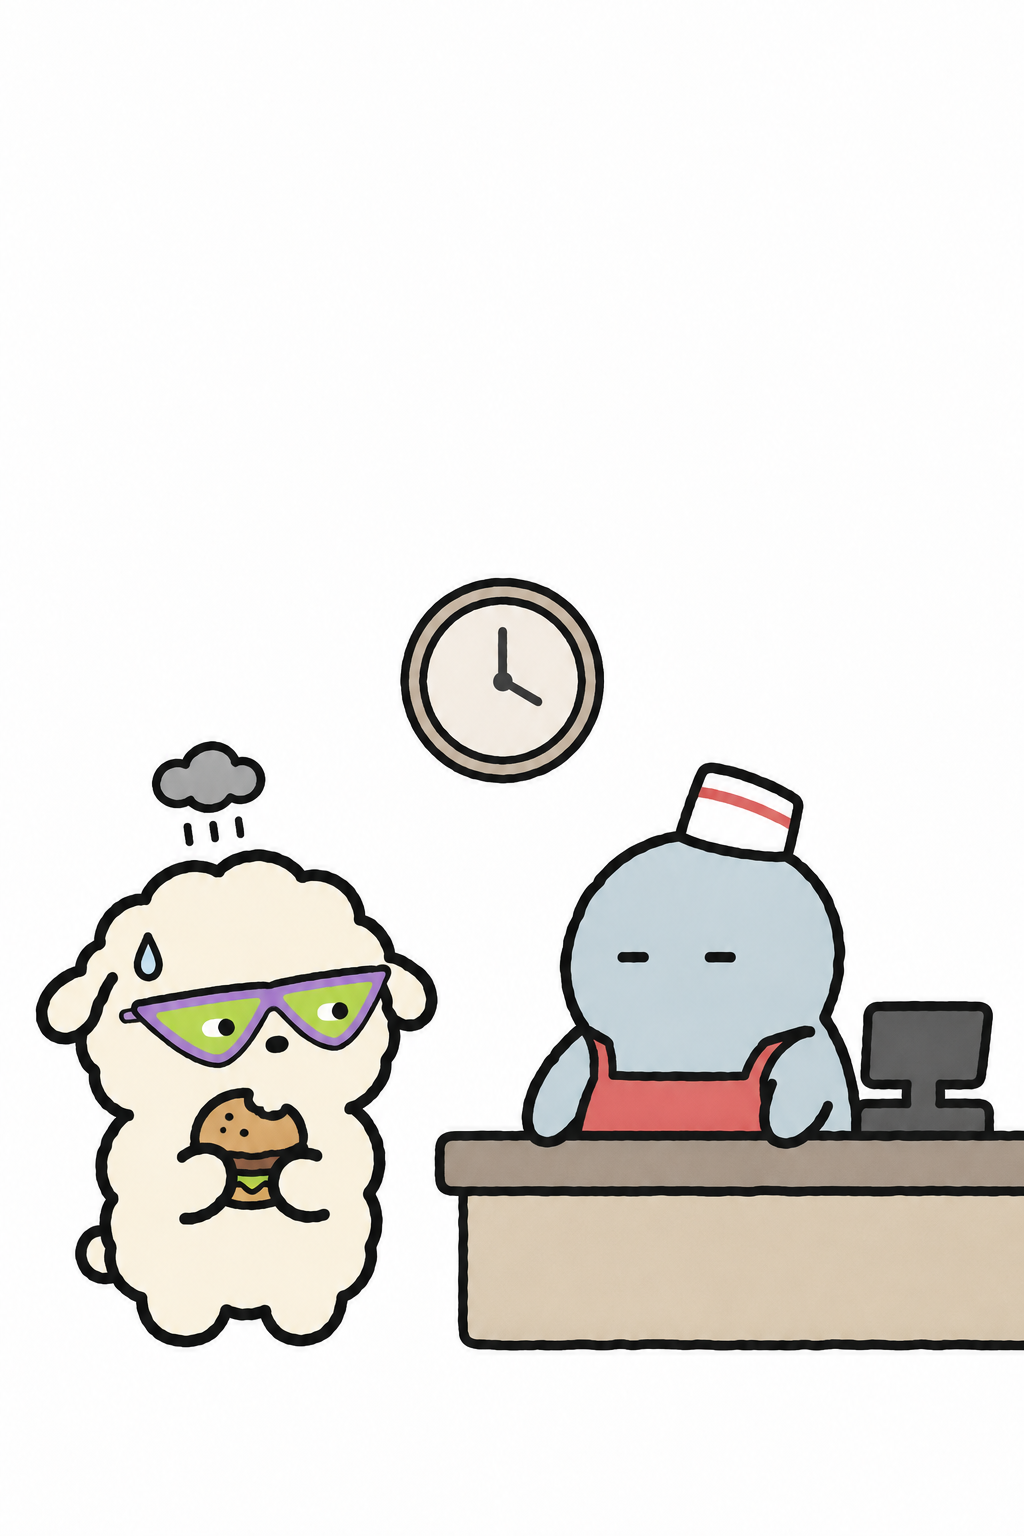
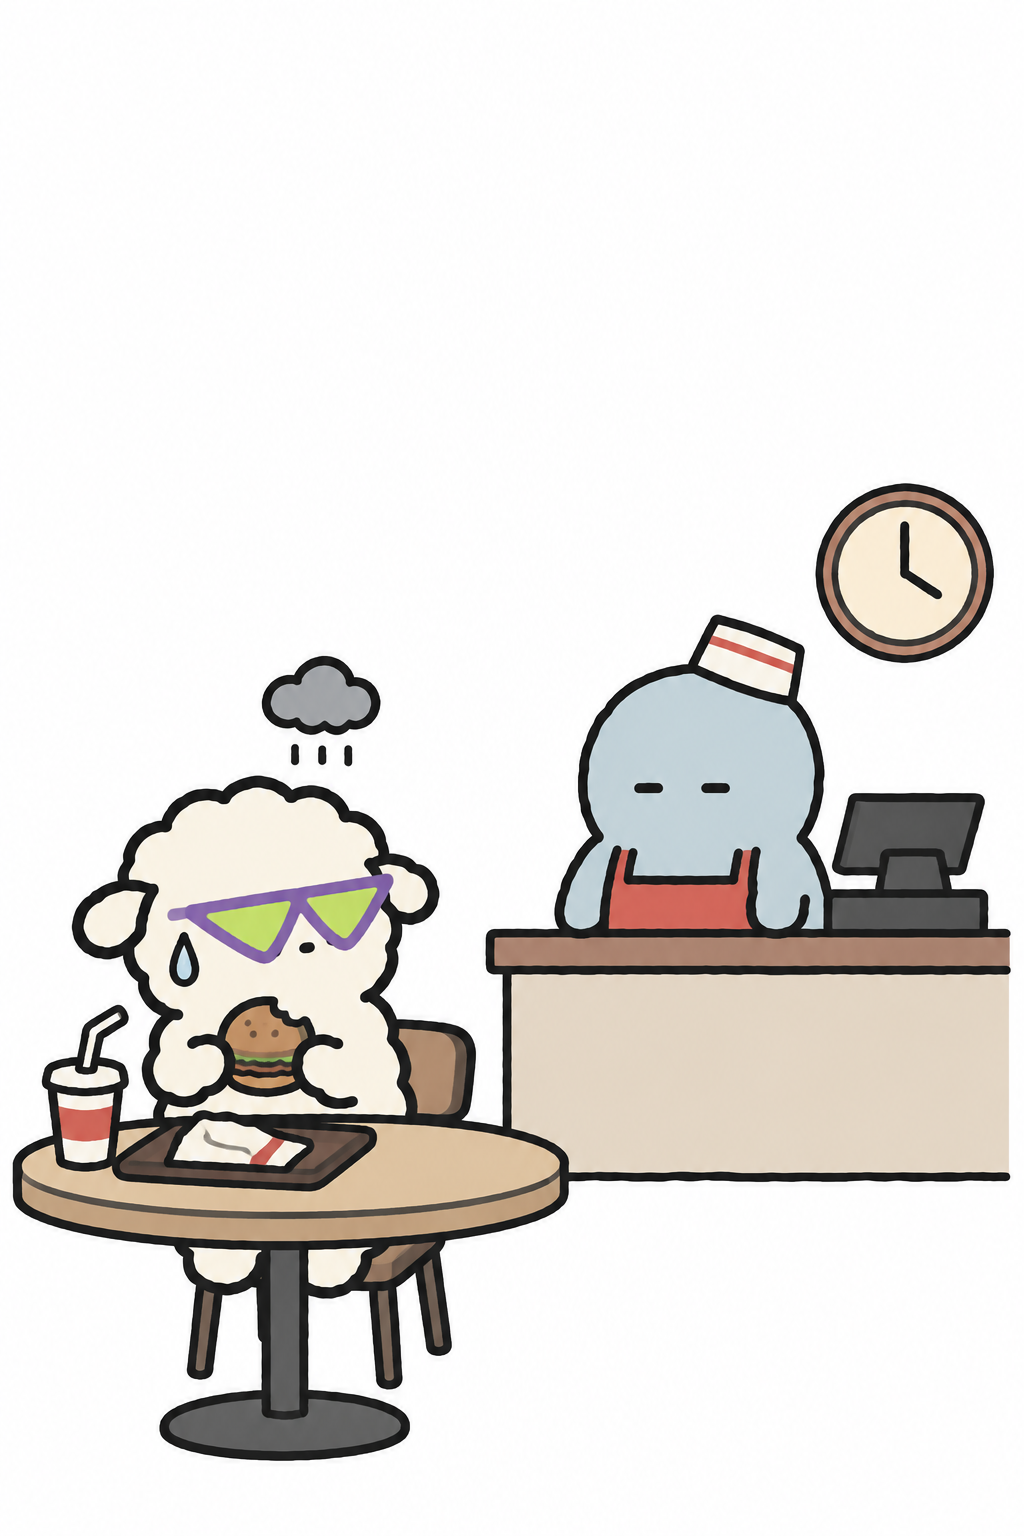
EP.01 수정: 폰트 확대(내레이션 56/속마음 40), 줄바꿈 콘티 그대로, 표지 시리즈명, CTA 문구, 컷2·4 재생성

diff --git a/episodes/ep01/compose.html b/episodes/ep01/compose.html
@@ -12,16 +12,16 @@
   section{position:relative;width:1080px;height:1350px;overflow:hidden;background:#fff;margin:0 auto 20px;font-family:'KyoboHand',sans-serif;color:var(--ink)}
   section img.art{position:absolute;inset:0;width:1080px;height:1350px;object-fit:cover;object-position:50% 100%}
   section.cover img.art{object-fit:contain;object-position:50% 100%}
-  .title{position:absolute;top:120px;left:80px;right:80px;text-align:center;font-family:'Nanum Pen Script',cursive;font-size:118px;line-height:1.12;letter-spacing:-.01em}
+  .series{position:absolute;top:84px;left:80px;right:80px;text-align:center;font-size:44px;color:var(--gray);letter-spacing:.02em}
+  .title{position:absolute;top:150px;left:60px;right:60px;text-align:center;font-family:'Nanum Pen Script',cursive;font-size:118px;line-height:1.12;letter-spacing:-.01em}
   .title b{font-weight:400;color:var(--point)}
-  .narr{position:absolute;top:70px;left:70px;right:70px;text-align:center;font-size:46px;line-height:1.5;white-space:pre-line}
-  .mind{position:absolute;font-size:30px;line-height:1.35;color:var(--gray);white-space:pre-line}
-  .mind.s{font-size:26px}
-  .mind.t{font-size:34px;color:#6E6862;background:#fff;padding:2px 10px}
-  #s7 img.art{transform:scale(.88);transform-origin:50% 100%}
-  #s7 .narr{font-size:40px}
-  #s7 .cta{top:318px;bottom:auto}
-  .cta{position:absolute;left:70px;right:70px;bottom:44px;text-align:center;font-size:32px;color:var(--point)}
+  .narr{position:absolute;top:70px;left:50px;right:50px;text-align:center;font-size:56px;line-height:1.4;white-space:pre}
+  .mind{position:absolute;font-size:40px;line-height:1.35;color:var(--gray);white-space:pre-line}
+  .mind.s{font-size:30px}
+  .mind.t{font-size:38px;color:#6E6862;background:#fff;padding:2px 10px}
+  #s7 img.art{transform:scale(.92);transform-origin:50% 100%}
+  #s7 .cta{top:250px;bottom:auto}
+  .cta{position:absolute;left:70px;right:70px;bottom:44px;text-align:center;font-size:38px;color:var(--point)}
   .dim img.art{filter:saturate(.75) brightness(.97)}
 </style>
 </head>
@@ -29,7 +29,8 @@
 
 <section class="cover" id="s0">
   <img class="art" src="img/cover.png" alt="">
-  <div class="title">말하지 않은<br><b>마음</b>까지 읽는<br>초능력자</div>
+  <div class="series">당신은 약간 초능력자?</div>
+  <div class="title">말하지 않은 <b>마음</b>까지 읽는<br>초능력자</div>
 </section>
 
 <section id="s1">
@@ -48,51 +49,54 @@
   <img class="art" src="img/cut2.png" alt="">
   <div class="narr">이 능력 덕분에
 많은 이들로부터 환영을 받기도 하고</div>
-  <div class="mind" style="right:60px;top:1180px;width:420px;text-align:center">내 맘 알아 주는 건
+  <div class="mind" style="left:520px;top:1170px;width:420px;text-align:center">내 맘 알아 주는 건
 너밖에 없어</div>
 </section>
 
 <section id="s3">
   <img class="art" src="img/cut3.png" alt="" style="object-position:50% 80%">
   <div class="narr">때로는 주류 무리의 반대를 무릅쓰고
-소외되는 이에게 손 내미는
-영웅적 면모도 보여 준다.</div>
+소외되는 이에게 손 내미는 영웅적 면모도 보여 준다.</div>
 </section>
 
 <section id="s4" class="dim">
   <img class="art" src="img/cut4.png" alt="">
   <div class="narr">이 능력 때문에 필요 없는 눈치를 보거나
 손해를 자처할 때도 많고</div>
-  <div class="mind s" style="left:330px;top:262px;width:380px;text-align:center">마감 시간 1시간 넘게 남음</div>
-  <div class="mind" style="right:50px;top:480px;width:340px;text-align:center">아무 생각 없음</div>
+  <div class="mind s" style="left:850px;top:436px;width:220px;text-align:center;font-size:28px">마감 시간
+1시간 넘게 남음</div>
+  <div class="mind" style="left:560px;top:322px;width:240px;text-align:center">아무 생각 없음</div>
 </section>
 
 <section id="s5" class="dim">
   <img class="art" src="img/cut5.png" alt="">
-  <div class="narr">스스로의 마음을 돌보지 못하는
-나를 미워하거나
-지난 날의 영웅적인 선택들까지
-후회하기도 한다.</div>
+  <div class="narr">스스로의 마음을 돌보지 못하는 나를 미워하거나
+지난 날의 영웅적인 선택들까지 후회하기도 한다.</div>
   <div class="mind" style="right:60px;top:1230px;width:460px;text-align:center">이건 초능력이 아니라 저주야...</div>
 </section>
 
 <section id="s6">
   <img class="art" src="img/cut6.png" alt="">
   <div class="narr">그렇지만 내가 나를 챙기지 못할 때면,
-항상 내가 지켜낸 사람들이
-나를 지켜 줬다.</div>
+항상 내가 지켜낸 사람들이 나를 지켜 줬다.</div>
 </section>
 
 <section id="s7">
   <img class="art" src="img/cut7.png" alt="">
-  <div class="narr">나는 앞으로도
-사람들의 마음을 외면하지 않을 것이다.
-내가 건넨 손길들로
-내 주변을 따뜻하게 할 수만 있다면.</div>
-  <div class="cta">당신 곁의 두부를 태그해 주세요</div>
+  <div class="narr">나는 앞으로도 사람들의 마음을 외면하지 않을 것이다.
+내가 건넨 손길들로 내 주변을 따뜻하게 할 수만 있다면.</div>
+  <div class="cta">당신 옆의 초능력자를 태그해 주세요</div>
 </section>
 
 <script>
+  // 내레이션: 줄바꿈은 콘티 그대로 두고, 가장 긴 줄이 폭을 넘으면 그 슬라이드만 폰트를 줄인다 (기본 56px)
+  document.fonts.ready.then(() => {
+    document.querySelectorAll('.narr').forEach(el => {
+      let fs = 56;
+      while (el.scrollWidth > el.clientWidth && fs > 30) el.style.fontSize = (--fs) + 'px';
+      el.dataset.fs = fs;
+    });
+  });
   // compose.html?only=N → 그 슬라이드만 표시 (헤드리스 스크린샷용, N은 0부터)
   const only = new URLSearchParams(location.search).get('only');
   if (only !== null) {

diff --git a/episodes/ep01/build_prompts.py b/episodes/ep01/build_prompts.py
@@ -13,7 +13,7 @@ files['conti.md'] = """# EP.01 「말하지 않은 마음까지 읽는 초능력
 | 4 | 패스트푸드 카운터. 찡그린 점원(물범), 반 넘게 남은 햄버거를 든 채 눈치 보는 두부. 벽시계 | 이 능력 때문에 필요 없는 눈치를 보거나 / 손해를 자처할 때도 많고 | 시계 위: 마감 시간 1시간 넘게 남음 · 점원: 아무 생각 없음 |
 | 5 | 켜진 모니터에 고양이 3인조가 사이좋게 찍은 인스타 화면. 두부는 선글라스를 던져 놓고 이불에 파묻혀 욺 | 스스로의 마음을 돌보지 못하는 나를 미워하거나 / 지난 날의 영웅적인 선택들까지 후회하기도 한다. | 두부: 이건 초능력이 아니라 저주야... |
 | 6 | 탱자와 소라가 선글라스를 쓰고 양쪽에서 우는 두부에게 달려옴 | 그렇지만 내가 나를 챙기지 못할 때면, / 항상 내가 지켜낸 사람들이 나를 지켜 줬다. | — |
-| 7 | 둥지 안에 조연들이 작은 새처럼 들어가 위를 보고 조잘거리고, 선글라스 두부가 둥지를 내려다봄. 머리 위 하트 | 나는 앞으로도 사람들의 마음을 외면하지 않을 것이다. / 내가 건넨 손길들로 내 주변을 따뜻하게 할 수만 있다면. | CTA: 당신 곁의 두부를 태그해 주세요 |
+| 7 | 둥지 안에 조연들이 작은 새처럼 들어가 위를 보고 조잘거리고, 선글라스 두부가 둥지를 내려다봄. 머리 위 하트 | 나는 앞으로도 사람들의 마음을 외면하지 않을 것이다. / 내가 건넨 손길들로 내 주변을 따뜻하게 할 수만 있다면. | CTA: 당신 옆의 초능력자를 태그해 주세요 |
 
 톤: 1–3 밝음 → 4–6 저채도·먹구름 → 7 포인트 컬러 복귀. 참조: 두부·소라·탱자·점원 시트, `ref/lineup-*.png`, 고양이 3인조 시트, 깜자 2장. 프롬프트는 `build_prompts.py`가 만든다.
 """
@@ -27,7 +27,7 @@ Dubu design:
 - 2-head-tall potato body with a soft cloud-shaped fluffy outline, stubby limbs, tiny tail, two small rounded ears sticking out sideways
 - face: two small black dot eyes set wide apart, one small dark dot nose, NO MOUTH, NO BLUSH, no eyelashes
 
-Prop of this episode, THE SUNGLASSES: a pair of wide, horizontally long sunglasses shaped like a downward-pointing triangle (flat top edge, lenses tapering to a point at the bottom), with lime-green #B5E550 lenses and a purple #8E5BC7 frame. Drawn flat, bold, simple.
+Prop of this episode, THE SUNGLASSES: a pair of wide, horizontally long sunglasses shaped like a downward-pointing triangle (flat top edge, lenses tapering to a point at the bottom), with lime-green #B5E550 lenses and a purple #8E5BC7 frame. Drawn flat, bold, simple. When a character WEARS the sunglasses, they sit exactly over the eyes: the lenses are centered on the face at eye level, both dot eyes are completely hidden behind the lenses, and the frame rests on the nose. Never draw them on the forehead or above the eyes.
 
 """
 END = "\nNo text, no letters, no speech bubbles, no captions. Plain white background.\n"
@@ -40,7 +40,7 @@ cuts['cut3'] = """Additional characters: Tangja, a yellow #F5E08C duck (flat ora
 ALL characters wear a simple girls' high-school uniform: white short-sleeve shirt and a navy #2E3A59 pleated skirt. Nothing else.
 Scene: a school cafeteria. In the foreground, Dubu wearing THE SUNGLASSES and Tangja sit side by side at a long plain table with two metal lunch trays with food. Tangja is sulky: eyes as small downward dashes, head drooping, a tiny gray rain cloud above her. Dubu sits close beside her, calm. Behind them, the three cats walk past in a line, each glancing at the two with a cold side-eye (eyes as small sideways dashes). Whole scene in the lower 65% of the image, the upper 35% empty white.""" + END
 cuts['cut4'] = """Additional character: a fast-food clerk, a blue gray #BCD0DA seal (blob body, no ears, flipper arms, dot eyes, no mouth, see the clerk sheet), same height as Dubu. The clerk wears a small white paper cap and a plain red #D9534F apron.
-Scene: a fast-food counter. The clerk stands behind a plain counter on the right, arms limp, eyes as two small slightly furrowed dashes (a mild frown), staring blankly. On the left, Dubu wearing THE SUNGLASSES stands holding a hamburger that is more than half uneaten, glancing nervously at the clerk: dot eyes looking sideways, body slightly shrunk, one sweat drop, a tiny gray rain cloud above her. On the wall between them, a simple round wall clock. Muted, slightly desaturated colors. Scene in the lower 60% of the image, the upper 40% empty white.
+Scene: inside a fast-food restaurant. On the right, in the background, the clerk stands behind a plain counter, arms limp, eyes as two small slightly furrowed dashes (a mild frown), staring blankly toward Dubu. On the left, in the foreground and clearly separated from the counter, Dubu wearing THE SUNGLASSES sits on a simple chair at a small round customer table, holding a hamburger that is more than half uneaten over a tray on the table, glancing nervously back toward the clerk: body slightly shrunk, one sweat drop, a tiny gray rain cloud above her. On the wall above the counter, a simple round wall clock. Muted, slightly desaturated colors. Scene in the lower 60% of the image, the upper 40% empty white.
 No text, no letters, no numbers on the clock, no speech bubbles, no captions. Plain white background.
 """
 cuts['cut5'] = "Scene: a gloomy room. On the left, a desk with a glowing computer monitor; the screen shows a simple photo of three cats (pink #F2C9CF, lavender #D6CBE6, mint #C5DCCB, same design as the cats sheet) standing close together happily with closed-arc eyes and a tiny sparkle, framed like a social media post (just a picture inside a rounded rectangle, no text, no icons). On the right, Dubu is buried in a lumpy pale blue blanket on the floor, only her head showing, crying: dot eyes with two thin tear streams. THE SUNGLASSES lie thrown on the floor in front of the blanket. A small gray rain cloud above Dubu. Muted, desaturated colors. Scene in the lower 60% of the image, the upper 40% empty white." + END

diff --git a/.claude/skills/make-episode/SKILL.md b/.claude/skills/make-episode/SKILL.md
@@ -9,7 +9,7 @@ description: 「당신은 약간 초능력자?」 에피소드 1편 제작 — M
 
 ## 1. 기획 규칙
 
-- **제목** = 그 유형의 통용되는 단점을 능력처럼 바꾼 후킹 카피. 형식 `[…] 초능력자`. 예: INFP 「알고 싶지 않은 마음까지 읽는 초능력자」. 시리즈명 「당신은 약간 초능력자?」는 표지에 넣지 않는다.
+- **제목** = 그 유형의 통용되는 단점을 능력처럼 바꾼 후킹 카피. 형식 `[…] 초능력자`. 예: INFP 「알고 싶지 않은 마음까지 읽는 초능력자」. 시리즈명 「당신은 약간 초능력자?」를 에피소드 제목 위에 작게 넣는다.
 - **MBTI는 작품 어디에도 쓰지 않는다** (표지·컷·캡션·해시태그). 유형은 기획 입력값일 뿐이다.
 - 내용은 해당 유형 독자가 "이거 나잖아"라고 느껴야 한다. 유형 밈이 아니라 **구체적 상황**(약치기그림식)으로 쓴다.
 - 내레이션·속마음은 **1인칭**("나는 …"). 3인칭 설명("이 유형은 …")으로 쓰지 않는다. CTA만 독자에게 말한다.
@@ -18,12 +18,12 @@ description: 「당신은 약간 초능력자?」 에피소드 1편 제작 — M
 
 | 컷 | 역할 | 비고 |
 |---|---|---|
-| 표지 | 제목 + 두부 (망토, POWER ACTIVATED 포즈) | 제목의 핵심 단어 1개만 포인트 컬러 |
+| 표지 | 시리즈명(작게) + 제목 + 두부 (에피소드 소품, POWER ACTIVATED 포즈) | 제목의 핵심 단어 1개만 포인트 컬러 |
 | 1 | 초능력 설명 — "이 유형은 ○○이 된다" | 담담한 내레이션 |
 | 2–3 | 장점 — 능력이 남에게 좋게 작용하는 장면 | 조연이 수혜자 |
 | 4 | **단점 첫 등장 = 공유 유도 컷.** 가장 구체적이고 찔리는 상황 | "이거 너잖아" 하고 친구에게 보내게 되는 컷. 여기에 가장 공을 들인다 |
 | 5–6 | 단점 심화 — 힘들고 불편한 부분 | 5는 상황, 6은 속마음 |
-| 7 | 마무리 = **저장 유도 문장** + 태그 CTA | "그래도 그 능력 덕분에 누군가는…" 한 줄 위로 → "당신 곁의 두부를 태그해 주세요" (캐릭터 이름이 정체성 태그) |
+| 7 | 마무리 = **저장 유도 문장** + 태그 CTA | "그래도 그 능력 덕분에 누군가는…" 한 줄 위로 → "당신 옆의 초능력자를 태그해 주세요" |
 
 톤 전환: 1–3 밝음 → 4–6 저채도·먹구름 → 7 망토 + 포인트 컬러 복귀.
 
@@ -32,7 +32,7 @@ description: 「당신은 약간 초능력자?」 에피소드 1편 제작 — M
 - 생성은 **캐릭터 + 소품만**. 프롬프트 끝에 항상 `No text, no letters, no speech bubbles, no captions. Plain white background.` 말풍선 꼬리가 캐릭터와 안 맞는 문제가 있어 **말풍선은 절대 그리지 않는다** — 속마음도 텍스트 합성으로.
 - 참조: 등장 캐릭터 시트 `assets/samples/<이름>-sheet-high.png`(두부 dubu, 미숙 misook, 덕수 deoksu, 콩 kong, 탱자 tangja, 소라 sora, 밤톨 bamtol) → **2명 이상 동시 출연이면** `python scripts/lineup.py dubu misook --out ref/lineup.png`로 그 컷의 캐릭터만 담은 크기 라인업을 만들어 다음 참조로 → `assets/ref/kkamja-1~2.jpg`(스타일). 각 시트 프롬프트(`<이름>-sheet-prompt.txt`)의 design 블록을 프롬프트 헤더로 복사하고, 라인업이 있으면 "the lineup image shows their relative sizes"를 덧붙인다.
 - 캐스트·크기·색은 `assets/characters.md` 1절.
-- 초능력 발동(표지·2–3·7): 테라코타 망토 `#C77B3F` + 반짝이. 단점 컷(4–6): 먹구름·땀방울, 망토 없음.
+- 초능력 발동(표지·2–3·7): 에피소드 소품(EP.01 선글라스; 기본은 테라코타 망토 `#C77B3F`) + 반짝이. 소품을 착용할 때는 위치를 프롬프트에 명시(선글라스는 눈을 덮게). 단점 컷(4–6): 먹구름·땀방울.
 - 텍스트가 들어갈 여백을 프롬프트로 확보: 내레이션 컷은 `character in the lower half, upper 40% empty`.
 - 생성: `python scripts/gen_image.py --prompt-file prompts/cutN.txt --ref assets/samples/dubu-sheet-high.png [--ref assets/samples/misook-sheet-high.png --ref ref/lineup.png] --ref assets/ref/kkamja-1.jpg --ref assets/ref/kkamja-2.jpg --out img/cutN.png` — 컷 `medium`, 표지 `high`. `.env` 로드 필요(`docs/env-setup.md`).
 
@@ -41,7 +41,7 @@ description: 「당신은 약간 초능력자?」 에피소드 1편 제작 — M
 - `episodes/epNN/compose.html` — 슬라이드 8장을 각각 1080×1350 `<section>`으로. 이미지는 1024×1536 생성본을 중앙 1024×1280 크롭(`object-fit:cover`).
 - 폰트: 본문(내레이션·속마음·CTA) **교보손글씨 2019** 확정, 내레이션은 가운데 정렬. 표지 제목은 미확정(현재 나눔손글씨 펜). `@font-face`는 `assets/fonts.html`에서 복사.
 - 표지: 제목 3줄 이내, 핵심 단어 `<b>`로 포인트 컬러.
-- 컷: 상단 내레이션 1–2줄. 속마음은 캐릭터 옆에 작은 회색 글자, 말풍선·박스 없이.
+- 컷: 상단 내레이션, **줄바꿈은 콘티에 적힌 그대로** (임의로 줄 수를 늘리지 않는다). 크기는 레퍼런스 실측(솜비 글자 높이 56px, 서밤 40px) 기준 내레이션 **56px**, 긴 줄은 그 슬라이드만 폭에 맞춰 자동 축소. 속마음·대사 **40px** 회색, 말풍선·박스 없이 캐릭터 옆에. CTA 38px.
 - Playwright MCP로 각 `<section>`을 `img/slideN.png`로 스크린샷 (viewport 1080×1350, `clip`). MCP 브라우저가 사용 중이면 `chrome-headless-shell.exe --headless --window-size=1080,1350 --virtual-time-budget=10000 --screenshot=img/slideN.png compose.html?only=N` (N은 0부터; `?only`는 compose.html에 그 슬라이드만 남기는 스크립트로 처리).
 - 이미지 크롭은 `object-position:50% 100%`(하단 기준)로 발이 안 잘리게 하고, 표지는 `object-fit:contain`.
 - 속마음 등 그림 옆 텍스트는 `python scripts/art_bbox.py img/cutN.png`로 그림 영역을 잰 뒤 그 밖에 놓는다. 프롬프트의 "상단 40% 비움"은 대략만 지켜지고(30~47%), 글자 폭은 폰트마다 달라 눈대중으로 두면 겹친다.

diff --git a/episodes/ep01/conti.md b/episodes/ep01/conti.md
@@ -11,6 +11,6 @@
 | 4 | 패스트푸드 카운터. 찡그린 점원(물범), 반 넘게 남은 햄버거를 든 채 눈치 보는 두부. 벽시계 | 이 능력 때문에 필요 없는 눈치를 보거나 / 손해를 자처할 때도 많고 | 시계 위: 마감 시간 1시간 넘게 남음 · 점원: 아무 생각 없음 |
 | 5 | 켜진 모니터에 고양이 3인조가 사이좋게 찍은 인스타 화면. 두부는 선글라스를 던져 놓고 이불에 파묻혀 욺 | 스스로의 마음을 돌보지 못하는 나를 미워하거나 / 지난 날의 영웅적인 선택들까지 후회하기도 한다. | 두부: 이건 초능력이 아니라 저주야... |
 | 6 | 탱자와 소라가 선글라스를 쓰고 양쪽에서 우는 두부에게 달려옴 | 그렇지만 내가 나를 챙기지 못할 때면, / 항상 내가 지켜낸 사람들이 나를 지켜 줬다. | — |
-| 7 | 둥지 안에 조연들이 작은 새처럼 들어가 위를 보고 조잘거리고, 선글라스 두부가 둥지를 내려다봄. 머리 위 하트 | 나는 앞으로도 사람들의 마음을 외면하지 않을 것이다. / 내가 건넨 손길들로 내 주변을 따뜻하게 할 수만 있다면. | CTA: 당신 곁의 두부를 태그해 주세요 |
+| 7 | 둥지 안에 조연들이 작은 새처럼 들어가 위를 보고 조잘거리고, 선글라스 두부가 둥지를 내려다봄. 머리 위 하트 | 나는 앞으로도 사람들의 마음을 외면하지 않을 것이다. / 내가 건넨 손길들로 내 주변을 따뜻하게 할 수만 있다면. | CTA: 당신 옆의 초능력자를 태그해 주세요 |
 
 톤: 1–3 밝음 → 4–6 저채도·먹구름 → 7 포인트 컬러 복귀. 참조: 두부·소라·탱자·점원 시트, `ref/lineup-*.png`, 고양이 3인조 시트, 깜자 2장. 프롬프트는 `build_prompts.py`가 만든다.
